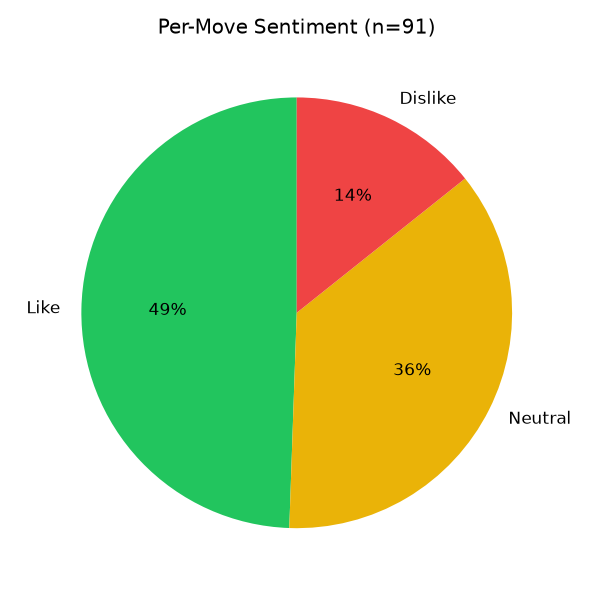
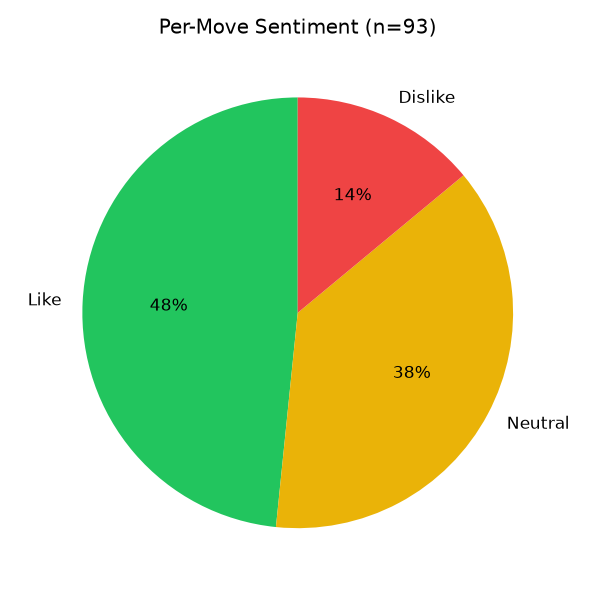
add battlefield play as legal move

diff --git a/ai_agent/system_prompt.py b/ai_agent/system_prompt.py
@@ -43,8 +43,10 @@ Action names and their required parameters:
                           "from_champion": false,
                           "from_hidden": false,
                           "accelerate": false}
-                          # Omit destination (or use "") for units to base — legal_moves
-                          # lists "play <id>" without "to base".
+                          # Omit destination (or use "") to play a unit to base.
+                          # Set a battlefield id to deploy a unit straight to a
+                          # Battlefield you control (or any battlefield if Ambush) —
+                          # only when legal_moves lists "play <id> to <battlefield>".
   hide_card              {"card_id": "<id>",
                           "battlefield_id": "<battlefield-a|battlefield-b>"}
   move_unit              {"unit_ids": ["<id>", ...],
@@ -92,9 +94,11 @@ CORE_RULES = """
   reflects what you can afford.
 
 ### Units
-- Permanents — stay on board after play.  Units are ALWAYS played to base; use
-  `destination: "base"` or omit the field.
-- Enter exhausted when played to base (cannot act that turn), unless Accelerate.
+- Permanents — stay on board after play.  Units are played to base by default
+  (omit `destination` or use `""`).  You may also deploy a unit straight to a
+  Battlefield you control by setting `destination` to that battlefield id — but
+  only when `legal_moves` lists `"play <id> to <battlefield>"`.
+- Enter exhausted when played (cannot act that turn), unless Accelerate.
 - Use `move_unit` on a later action to send a ready base unit to a Battlefield.
 - Standard Move: exhaust a unit to move it Base <-> Battlefield.
 - A unit dies during Cleanup when damage >= its Might. Damage heals at the end of
@@ -285,9 +289,6 @@ trigger fires rather than assuming:
   back it with a trick), call `simulate_line` with the moves in order — simulate
   the LINE you intend, not just the first move. Use `evaluate_position` to
   confirm a play helps.
-- When the opponent's likely response matters, call `get_opponent_history`.
-- Call `list_legal_moves` when you want a concrete, fresh option set to choose
-  over; the brief state already includes one, but this is always current.
 Prefer one or two targeted tool calls over a confident guess.
 """
 

diff --git a/Docs/Game Rules/ai-agent-implementation-plan.md b/Docs/Game Rules/ai-agent-implementation-plan.md
@@ -304,12 +304,10 @@ These should hold no matter what:
 
 This section tracks rules that have been deliberately simplified or deferred in the current implementation. It exists so design decisions are explicit rather than accidental, and so future implementors know where to re-open the work.
 
-### 13.1 Unit placement — Ambush keyword (deferred)
+### 13.1 Unit placement — Ambush keyword (implemented)
 
-**Rule:** Units are played from hand to the player's **base**. Direct deployment onto a Battlefield normally requires the **Ambush** keyword.
+**Rule:** Units are played from hand to the player's **base** by default, but may be deployed directly onto a Battlefield the player **controls**. Direct deployment onto a Battlefield the player does **not** control requires the **Ambush** keyword.
 
-**Current implementation:** The Ambush keyword is not yet implemented. The `play` command enforces that any unit played with a `to battlefield-*` destination is immediately rejected with an error. Units must always be played to base, then repositioned via the `move` command.
+**Current implementation:** The `play` command validates unit destinations in `_cmd_play` (see `GameController._cmd_play`): a `to battlefield-*` destination is accepted when the player controls that Battlefield, or when the unit has the **Ambush** keyword; otherwise it is rejected. `_place_unit` performs the actual placement. `LegalMoveEnumerator._add_playable_cards` enumerates a `play <id> to <battlefield>` move for every controlled Battlefield (and every Battlefield for Ambush units).
 
-**Implication for the agent:** `play_card` actions for units must omit `destination` or set it to `base`. The only way to get a unit onto a Battlefield is a subsequent `move_unit` action on the unit once it is ready.
-
-**When to revisit:** Implement Ambush as a keyword effect that overrides the base-only placement restriction. At that point, remove the destination guard in `_cmd_play` and add a keyword check in `_place_unit` instead.
+**Implication for the agent:** `play_card` actions for units may omit `destination` (base), or set `destination` to a Battlefield that appears as a `"play <id> to <battlefield>"` entry in `legal_moves`. A unit can also be repositioned later via a `move_unit` action once it is ready.
